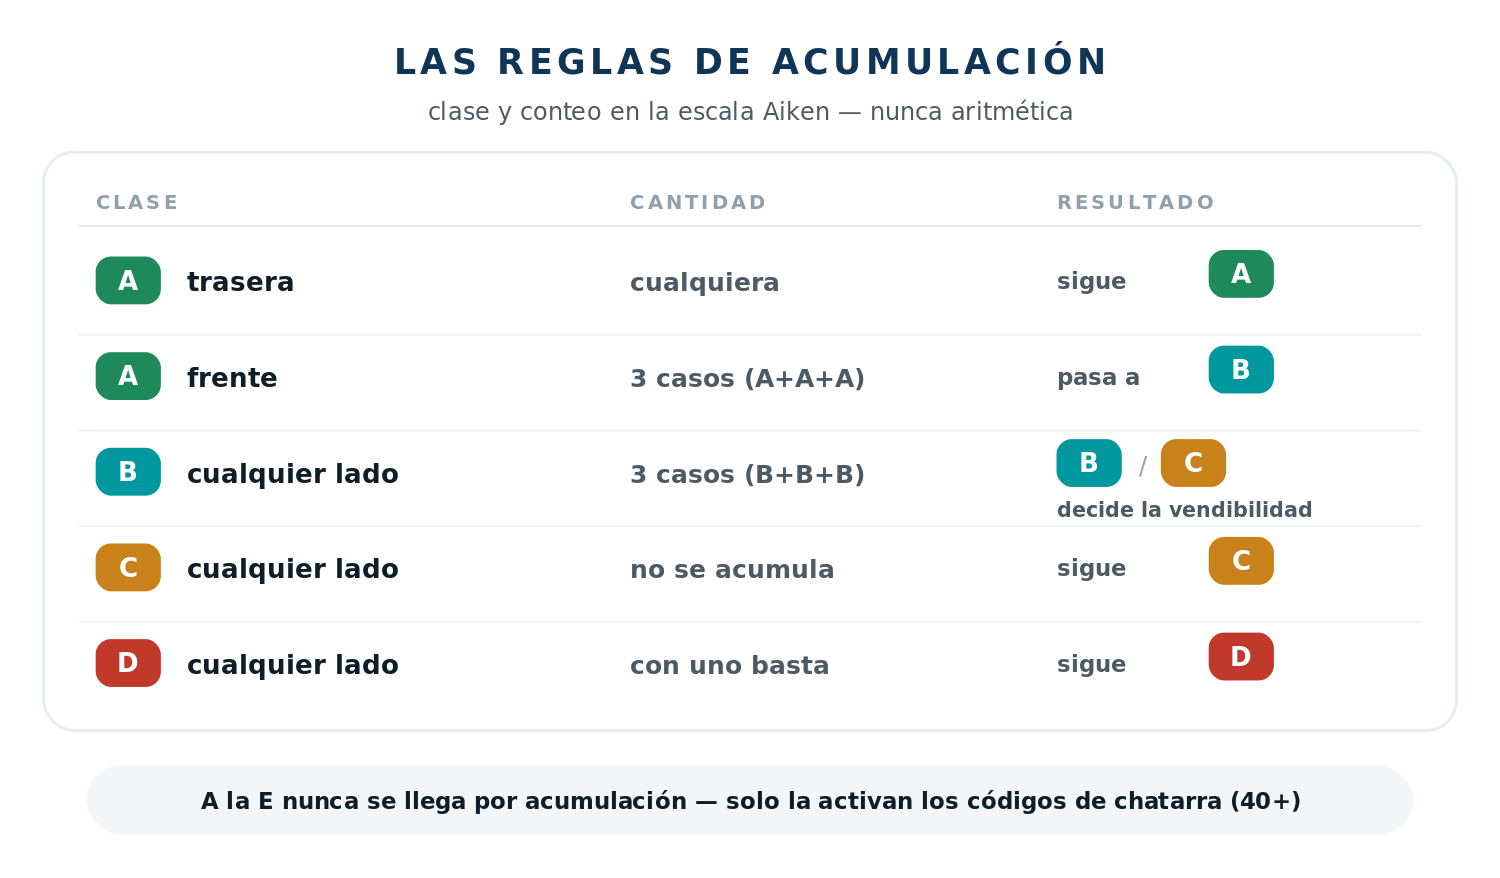
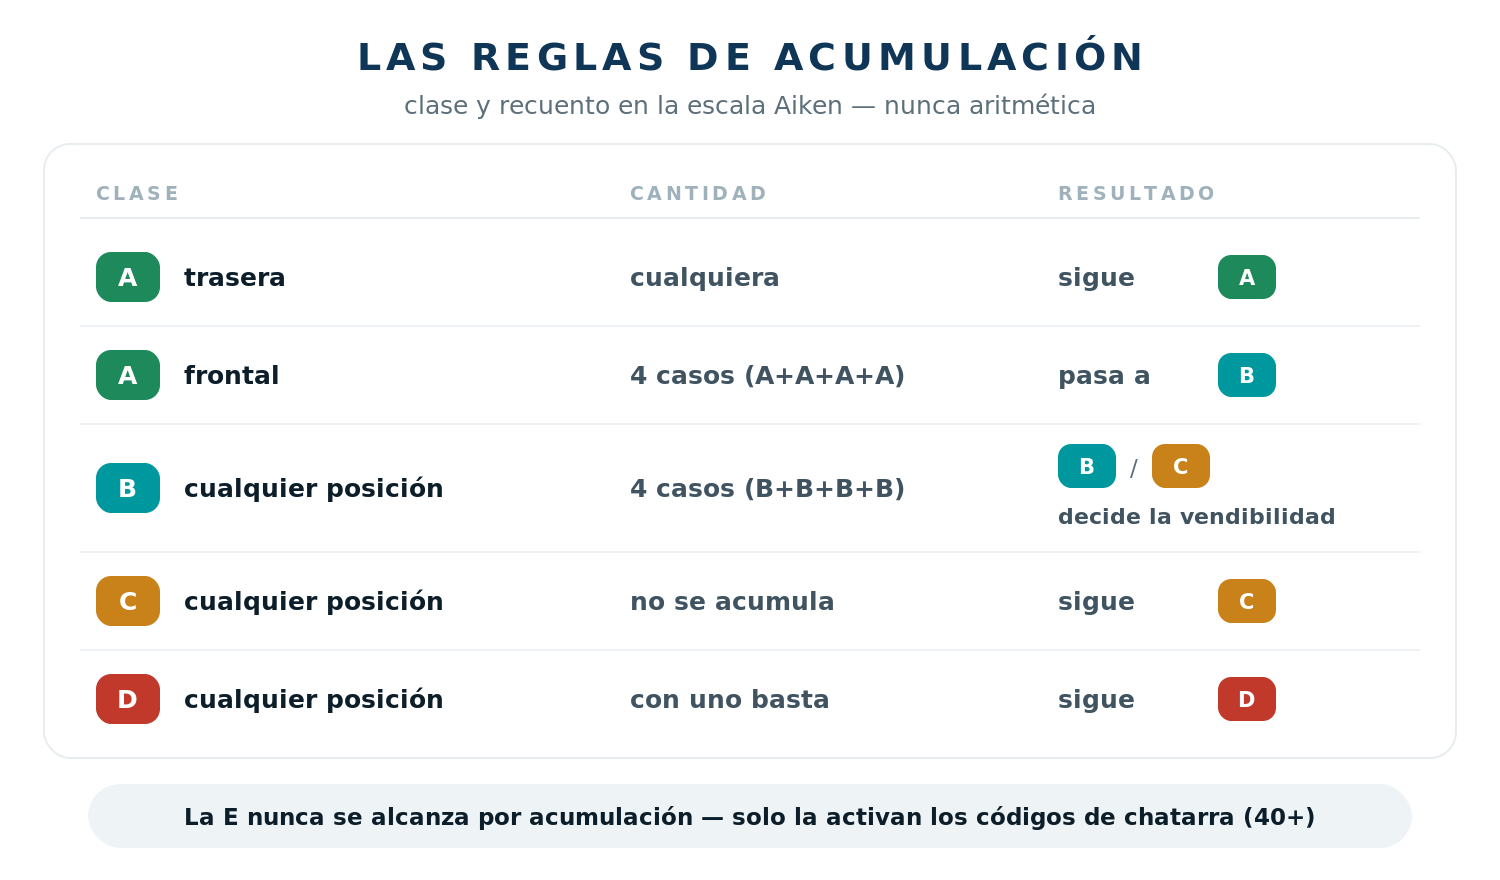
accumulation triggers 3->4: tables, worked example, narrative EN/IT/ES + regenerated infographics x3

diff --git a/es.html b/es.html
@@ -294,22 +294,22 @@ html.dark{--paper:#121d33;--paperline:#22304d;--ink:#e6ecf7;--mut:#93a3bb;--bg:#
   <table>
    <tr><th>Hallazgos</th><th>2023</th><th>G2026</th></tr>
    <tr><td>Desgaste A, trasera</td><td class="old">sigue A</td><td>sigue A — el micro-desgaste trasero nunca sube el grado, en ninguna cantidad</td></tr>
-   <tr><td>A en el frente &times;3</td><td class="old">pasa a B</td><td>pasa a B — desgaste leve donde mira el usuario, tres veces, ya no es "como nuevo"</td></tr>
-   <tr><td>B &times;3</td><td class="old">mecánicamente C<br><i>nota: "corregir al mejor grado si la impresión general es buena"</i></td><td class="new"><b>frontera</b> B/C — decide la vendibilidad. La decisión es del auditor: autónoma, juzgada como lo haría un comprador</td></tr>
+   <tr><td>A en el frente</td><td class="old">&times;3 — pasa a B</td><td>&times;4 — pasa a B. Desgaste leve donde mira el usuario, cuatro veces, ya no es "como nuevo"; con tres o menos sigue en A</td></tr>
+   <tr><td>Acumulación de B</td><td class="old">&times;3 — mecánicamente C<br><i>nota: "corregir al mejor grado si la impresión general es buena"</i></td><td class="new">&times;4 — la <b>frontera</b> B/C: decide la vendibilidad (con tres B sigue en B). La decisión es del auditor: autónoma, juzgada como lo haría un comprador</td></tr>
    <tr><td>C, en cualquier número</td><td class="old">sigue C</td><td>sigue C — la C nunca se acumula: cinco defectos significativos y uno son ambos C</td></tr>
    <tr><td>una D</td><td class="old">D</td><td>D — con una basta, sea lo que sea lo demás</td></tr>
   </table>
-  <p class="sub" style="margin:12px 0 0">Releed la vieja nota: era ella la que hacía el trabajo real. G2026 la asciende a regla y confía en el juicio del auditor. Cuando una decisión está de verdad en duda: primero el manual, después el QC manager. Una breve nota de Aiken en los casos ajustados ayuda a QC a seguir el razonamiento — una herramienta, no un deber.</p>
+  <p class="sub" style="margin:12px 0 0">Releed la vieja nota: era ella la que hacía el trabajo real. G2026 la asciende a regla, sube el umbral a cuatro y confía en el juicio del auditor. Cuando una decisión está de verdad en duda: primero el manual, después el QC manager. Una breve nota de Aiken en los casos ajustados ayuda a QC a seguir el razonamiento — una herramienta, no un deber.</p>
  </div>
  <a class="ginfo" href="transition-assets/accumulation-rules-es.png" target="_blank"><img src="transition-assets/accumulation-rules-es.png" alt="Reglas de acumulación"></a>
 
  <h2 style="margin-top:22px">Un portátil, dos sistemas</h2>
  <div class="card">
-  <p style="margin:0 0 10px"><b>La unidad:</b> tres defectos medios en tapa y reposamanos (clase B cada uno) + los micro-arañazos habituales en la base (desgaste A trasero).</p>
+  <p style="margin:0 0 10px"><b>La unidad:</b> cuatro defectos medios en tapa y reposamanos (clase B cada uno) + los micro-arañazos habituales en la base (desgaste A trasero).</p>
   <table>
    <tr><th></th><th>2023</th><th>G2026</th></tr>
    <tr><td><b>Desgaste trasero</b></td><td class="old">registrado, ignorado</td><td>registrado, ignorado — igual</td></tr>
-   <tr><td><b>Tres B frontales</b></td><td class="old">C mecánica, con la nota aplicada a discreción del auditor</td><td class="new">frontera B/C — el auditor mira la unidad entera como lo haría un comprador</td></tr>
+   <tr><td><b>Cuatro B frontales</b></td><td class="old">C mecánica con tres, con la nota aplicada a discreción del auditor</td><td class="new">frontera B/C — el auditor mira la unidad entera como lo haría un comprador</td></tr>
    <tr><td><b>Veredicto</b></td><td class="old">C (típicamente)</td><td class="new">pantalla limpia, teclado sólido, presentable a un brazo de distancia &rarr; <span class="chip cB">B</span>. Realmente cansada &rarr; <span class="chip cC">C</span>. Decide el auditor.</td></tr>
   </table>
   <p class="sub" style="margin:10px 0 0">La misma unidad — pero el lado es ahora una decisión de juicio, no mecánica. Si la decisión está de verdad en equilibrio, los pesos en puntos son el desempate autorizado — y la duda que quede va al manual, después al QC manager.</p>

diff --git a/it.html b/it.html
@@ -294,22 +294,22 @@ html.dark{--paper:#121d33;--paperline:#22304d;--ink:#e6ecf7;--mut:#93a3bb;--bg:#
   <table>
    <tr><th>Rilievi</th><th>2023</th><th>G2026</th></tr>
    <tr><td>Usura A, retro</td><td class="old">resta A</td><td>resta A — la micro-usura posteriore non alza mai il grado, in nessuna quantità</td></tr>
-   <tr><td>A sul fronte &times;3</td><td class="old">diventa B</td><td>diventa B — usura lieve dove l'utente guarda, tre volte, non è più "come nuovo"</td></tr>
-   <tr><td>B &times;3</td><td class="old">meccanicamente C<br><i>nota: "correggere al grado migliore se l'impressione generale è buona"</i></td><td class="new"><b>confine</b> B/C — decide la vendibilità. La scelta è dell'auditor: autonoma, giudicata come farebbe un acquirente</td></tr>
+   <tr><td>A sul fronte</td><td class="old">&times;3 — diventa B</td><td>&times;4 — diventa B. Usura lieve dove l'utente guarda, quattro volte, non è più "come nuovo"; con tre o meno resta A</td></tr>
+   <tr><td>Accumulo di B</td><td class="old">&times;3 — meccanicamente C<br><i>nota: "correggere al grado migliore se l'impressione generale è buona"</i></td><td class="new">&times;4 — il <b>confine</b> B/C: decide la vendibilità (con tre B resta B). La scelta è dell'auditor: autonoma, giudicata come farebbe un acquirente</td></tr>
    <tr><td>C, in qualsiasi numero</td><td class="old">resta C</td><td>resta C — la C non si accumula mai: cinque difetti significativi e uno sono entrambi C</td></tr>
    <tr><td>una D</td><td class="old">D</td><td>D — ne basta una, qualunque altra cosa sia vera</td></tr>
   </table>
-  <p class="sub" style="margin:12px 0 0">Rileggete la vecchia nota: era lei a fare il lavoro vero. G2026 la promuove a regola e si affida al giudizio dell'auditor. Quando una scelta è davvero in dubbio: prima il manuale, poi il QC manager. Una breve nota Aiken sulle decisioni al limite aiuta il QC a seguire il ragionamento — uno strumento, non un obbligo.</p>
+  <p class="sub" style="margin:12px 0 0">Rileggete la vecchia nota: era lei a fare il lavoro vero. G2026 la promuove a regola, alza la soglia a quattro e si affida al giudizio dell'auditor. Quando una scelta è davvero in dubbio: prima il manuale, poi il QC manager. Una breve nota Aiken sulle decisioni al limite aiuta il QC a seguire il ragionamento — uno strumento, non un obbligo.</p>
  </div>
  <a class="ginfo" href="transition-assets/accumulation-rules-it.png" target="_blank"><img src="transition-assets/accumulation-rules-it.png" alt="Regole di accumulo"></a>
 
  <h2 style="margin-top:22px">Un laptop, due sistemi</h2>
  <div class="card">
-  <p style="margin:0 0 10px"><b>L'unità:</b> tre difetti medi su coperchio e palmrest (classe B ciascuno) + i soliti micro-graffi sulla base (usura A posteriore).</p>
+  <p style="margin:0 0 10px"><b>L'unità:</b> quattro difetti medi su coperchio e palmrest (classe B ciascuno) + i soliti micro-graffi sulla base (usura A posteriore).</p>
   <table>
    <tr><th></th><th>2023</th><th>G2026</th></tr>
    <tr><td><b>Usura posteriore</b></td><td class="old">registrata, ignorata</td><td>registrata, ignorata — uguale</td></tr>
-   <tr><td><b>Tre B frontali</b></td><td class="old">C meccanica, con la nota applicata a discrezione dell’auditor</td><td class="new">confine B/C — l'auditor guarda l'unità intera come farebbe un acquirente</td></tr>
+   <tr><td><b>Quattro B frontali</b></td><td class="old">C meccanica a tre, con la nota applicata a discrezione dell’auditor</td><td class="new">confine B/C — l'auditor guarda l'unità intera come farebbe un acquirente</td></tr>
    <tr><td><b>Verdetto</b></td><td class="old">C (tipicamente)</td><td class="new">schermo pulito, tastiera solida, presentabile a distanza di braccio &rarr; <span class="chip cB">B</span>. Davvero stanca &rarr; <span class="chip cC">C</span>. Decide l'auditor.</td></tr>
   </table>
   <p class="sub" style="margin:10px 0 0">La stessa unità — ma il lato ora è una scelta di giudizio, non meccanica. Se la scelta è davvero in equilibrio, i pesi in punti sono lo spareggio autorizzato — e il dubbio che resta va al manuale, poi al QC manager.</p>

diff --git a/index.html b/index.html
@@ -294,22 +294,22 @@ html.dark{--paper:#121d33;--paperline:#22304d;--ink:#e6ecf7;--mut:#93a3bb;--bg:#
   <table>
    <tr><th>Findings</th><th>2023</th><th>G2026</th></tr>
    <tr><td>A-wear, rear</td><td class="old">stays A</td><td>stays A — rear micro-wear never lifts a grade, no matter how much</td></tr>
-   <tr><td>A on the front &times;3</td><td class="old">becomes B</td><td>becomes B — light wear on what the user looks at, three times over, is no longer like-new</td></tr>
-   <tr><td>B &times;3</td><td class="old">mechanically C<br><i>footnote: "correct to the better grade if the overall impression is good"</i></td><td class="new">B/C <b>border</b> — sellability decides the side. The call is the auditor's: autonomous, judged as a buyer would</td></tr>
+   <tr><td>A on the front</td><td class="old">&times;3 — becomes B</td><td>&times;4 — becomes B. Light wear on what the user looks at, four times over, is no longer like-new; three or fewer stay A</td></tr>
+   <tr><td>B accumulation</td><td class="old">&times;3 — mechanically C<br><i>footnote: "correct to the better grade if the overall impression is good"</i></td><td class="new">&times;4 — the B/C <b>border</b>: sellability decides the side (three Bs stay B). The call is the auditor's: autonomous, judged as a buyer would</td></tr>
    <tr><td>C, any number</td><td class="old">stays C</td><td>stays C — C never accumulates: five significant defects and one are both a C</td></tr>
    <tr><td>one D</td><td class="old">D</td><td>D — one is enough, whatever else is true</td></tr>
   </table>
-  <p class="sub" style="margin:12px 0 0">Read the old footnote again — it was doing the real work all along. G2026 promotes it to the rule and trusts the auditor's judgment. When a call is genuinely in doubt: the manual first, then the QC manager. A short Aiken note on close calls helps QC follow the reasoning — a tool, not a duty.</p>
+  <p class="sub" style="margin:12px 0 0">Read the old footnote again — it was doing the real work all along. G2026 promotes it to the rule, raises the trigger to four, and trusts the auditor's judgment. When a call is genuinely in doubt: the manual first, then the QC manager. A short Aiken note on close calls helps QC follow the reasoning — a tool, not a duty.</p>
  </div>
  <a class="ginfo" href="transition-assets/accumulation-rules.png" target="_blank"><img src="transition-assets/accumulation-rules.png" alt="Accumulation rules"></a>
 
  <h2 style="margin-top:22px">One laptop, two systems</h2>
  <div class="card">
-  <p style="margin:0 0 10px"><b>The unit:</b> three medium blemishes on lid and palmrest (B-class each) + the usual micro-scratches on the base (rear A-wear).</p>
+  <p style="margin:0 0 10px"><b>The unit:</b> four medium blemishes on lid and palmrest (B-class each) + the usual micro-scratches on the base (rear A-wear).</p>
   <table>
    <tr><th></th><th>2023</th><th>G2026</th></tr>
    <tr><td><b>Rear wear</b></td><td class="old">recorded, ignored</td><td>recorded, ignored — same</td></tr>
-   <tr><td><b>Three front Bs</b></td><td class="old">mechanical C, with the footnote applied at the auditor’s discretion</td><td class="new">B/C border — the auditor looks at the whole unit as a buyer would</td></tr>
+   <tr><td><b>Four front Bs</b></td><td class="old">mechanical C at three, with the footnote applied at the auditor’s discretion</td><td class="new">B/C border — the auditor looks at the whole unit as a buyer would</td></tr>
    <tr><td><b>Verdict</b></td><td class="old">C (typically)</td><td class="new">clean screen, solid keyboard, presentable at arm's length &rarr; <span class="chip cB">B</span>. Genuinely tired &rarr; <span class="chip cC">C</span>. The auditor decides.</td></tr>
   </table>
   <p class="sub" style="margin:10px 0 0">Same unit — but the side is now a judged call, not mechanics. If the call feels genuinely even, the point weights are the sanctioned tiebreaker — and lingering doubt goes to the manual, then to the QC manager.</p>
